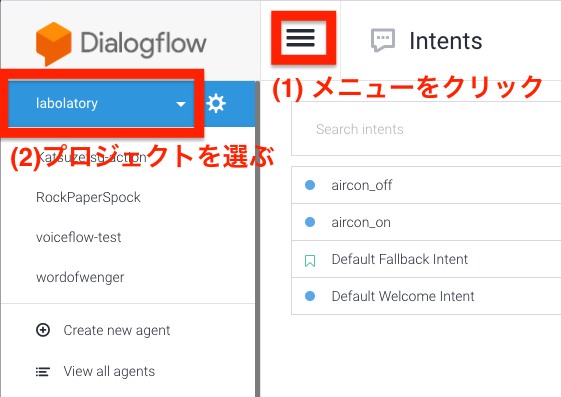
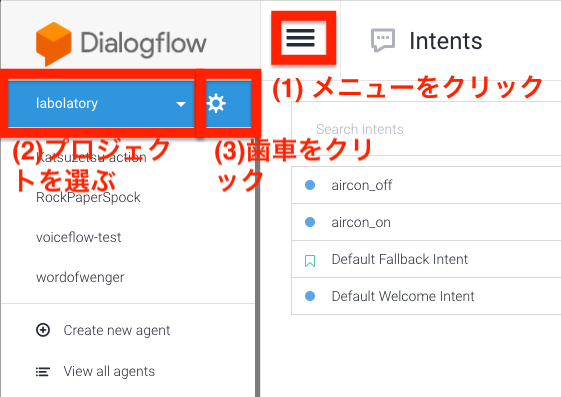
voiceflow

Changed region(s): [[0.0, 0.1511, 0.6667, 0.4836]]

diff --git a/review-starter/chapxx-sitopp.md b/review-starter/chapxx-sitopp.md
@@ -448,19 +448,44 @@ Speaking as Alexa
 
 ### Googleにアップロード
 
-いよいよです。
+アップする前にもう一度ロケールを確認します。
 
-* 「Upload to Google」のボタンをクリック
+* 「canvas Test Publish」の三つのうち、「Publish」をクリック
+* 「Google beta」をクリック→Languagesパネルで、「Japanese(ja）」をクリックし、Next
+* 「Canvas」に戻り「Upload to Google」のボタンをクリック
 * インジケーターが周り、10数秒ほどでアップロード完了し、「Action Upload Successfull」と表示される
 * 「You may test on the Google Actions Simulator. 」の部分をクリックすると、別窓でシミュレーターが開く。
 * もし失敗したら、ネットワークの接続ミスか、「Googleのデベロッパーアカウントとの連携」を見直してください。
 
-* 「Talk to my test app」の所に「暖房つけて」と入力してエンター
-* 「We're sorry, but something went wrong. Please try again.」と出るはず。
-* DialogFlowのコンソールを開く https://dialogflow.cloud.google.com/
-* さっき作ったプロジェクトが開くはずですが、もし違うプロジェクトが開いたら、左上の三本線のメニューアイコンをクリックして、プロジェクトを選び直します
+![IFTTTのWebhoooksの発火履歴](images/chapxx-sitopp/s035)
 
-![IFTTTのWebhoooksの発火履歴](images/chapxx-sitopp/s034)
+
+* シミュレーターはいったんスルーして、「Develop」タブを開き、「Japanese」→「Display name」にアクション名を入力。自分の場合、M-1のぺこぱが面白かったので、以下のようにしましたー。右上の「Save」をクリック。
+
+```
+Display name：しょういんじ
+Google Assistant voice：Male 1
+```
+* 「Don't forget to update sample invocations in the directory information page」というガイダンスが出るのですがいったんスルー。
+* 「Modify Languages」をクリック、「English」のチェックを外して、「Japanese」だけにチェックが入ってる状態にして、「Save」をクリック。Deleting Languagesの警告がでますが、OKをクリック。
+
+* 「Overview Develop Test Deploy Analytics」のうち「Test」をクリック、
+
+* 画面左下の入力欄に「しょういんじにつないで」と出ているので、カーソルをあわせてエンター押下
+* 「はい。しょういんじのテストバージョンです」と応答があったら、「暖房つけて」と入力してエンター押下
+* 「暖房をつけます。送信しました。」と応答があり、アクションは終了します。
+
+![しょういんじのテスト](images/chapxx-sitopp/s036)
+
+
+もし日本語は認識しません、、系のエラーが出たら、以下を試してみてください。
+
+* DialogFlowのコンソールを開く https://dialogflow.cloud.google.com/
+* 左上の三本線のメニューアイコンをクリックして、先ほど作ったプロジェクトを選び、歯車をクリックします。
+* 「General Language MLSettings〜」とタブが並んでいるので「Languages」をクリック
+* 「Select Additional Language」をクリックし、「Japanese - ja」を選択
+* 「SAVE」をクリック
+
 
 
 ## 5. M5StickCリモコンをMQTT対応にする
